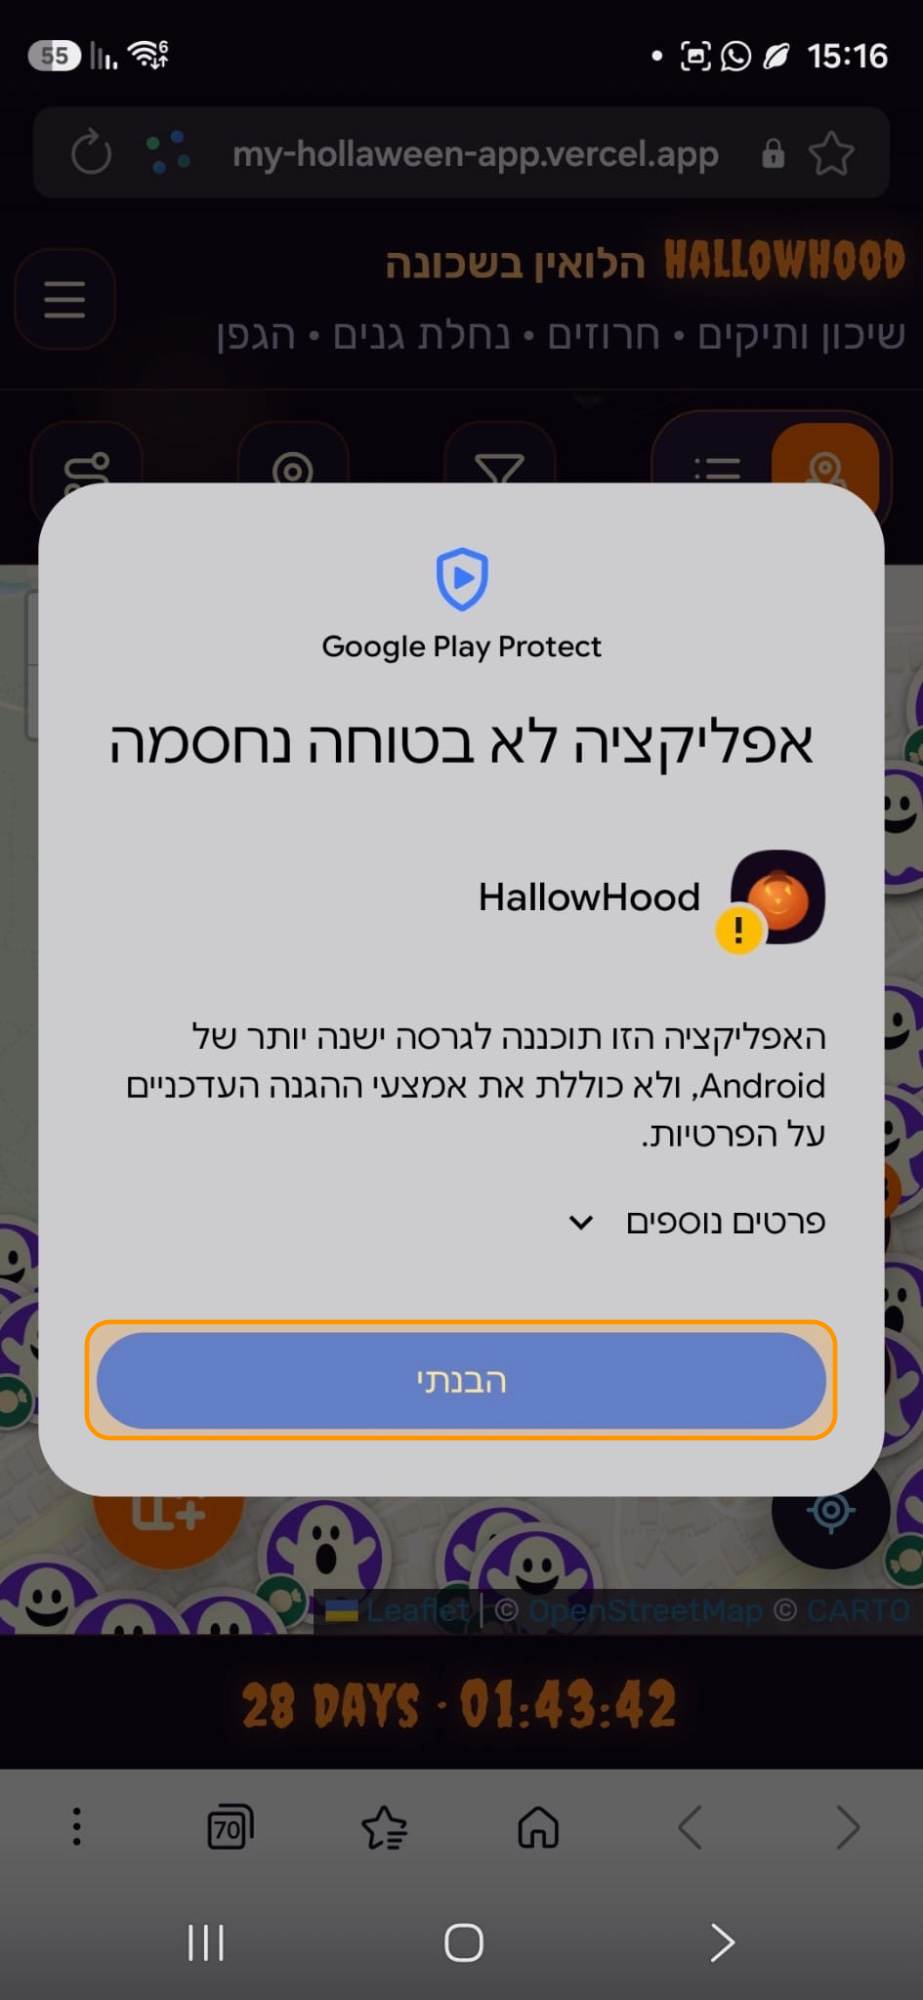
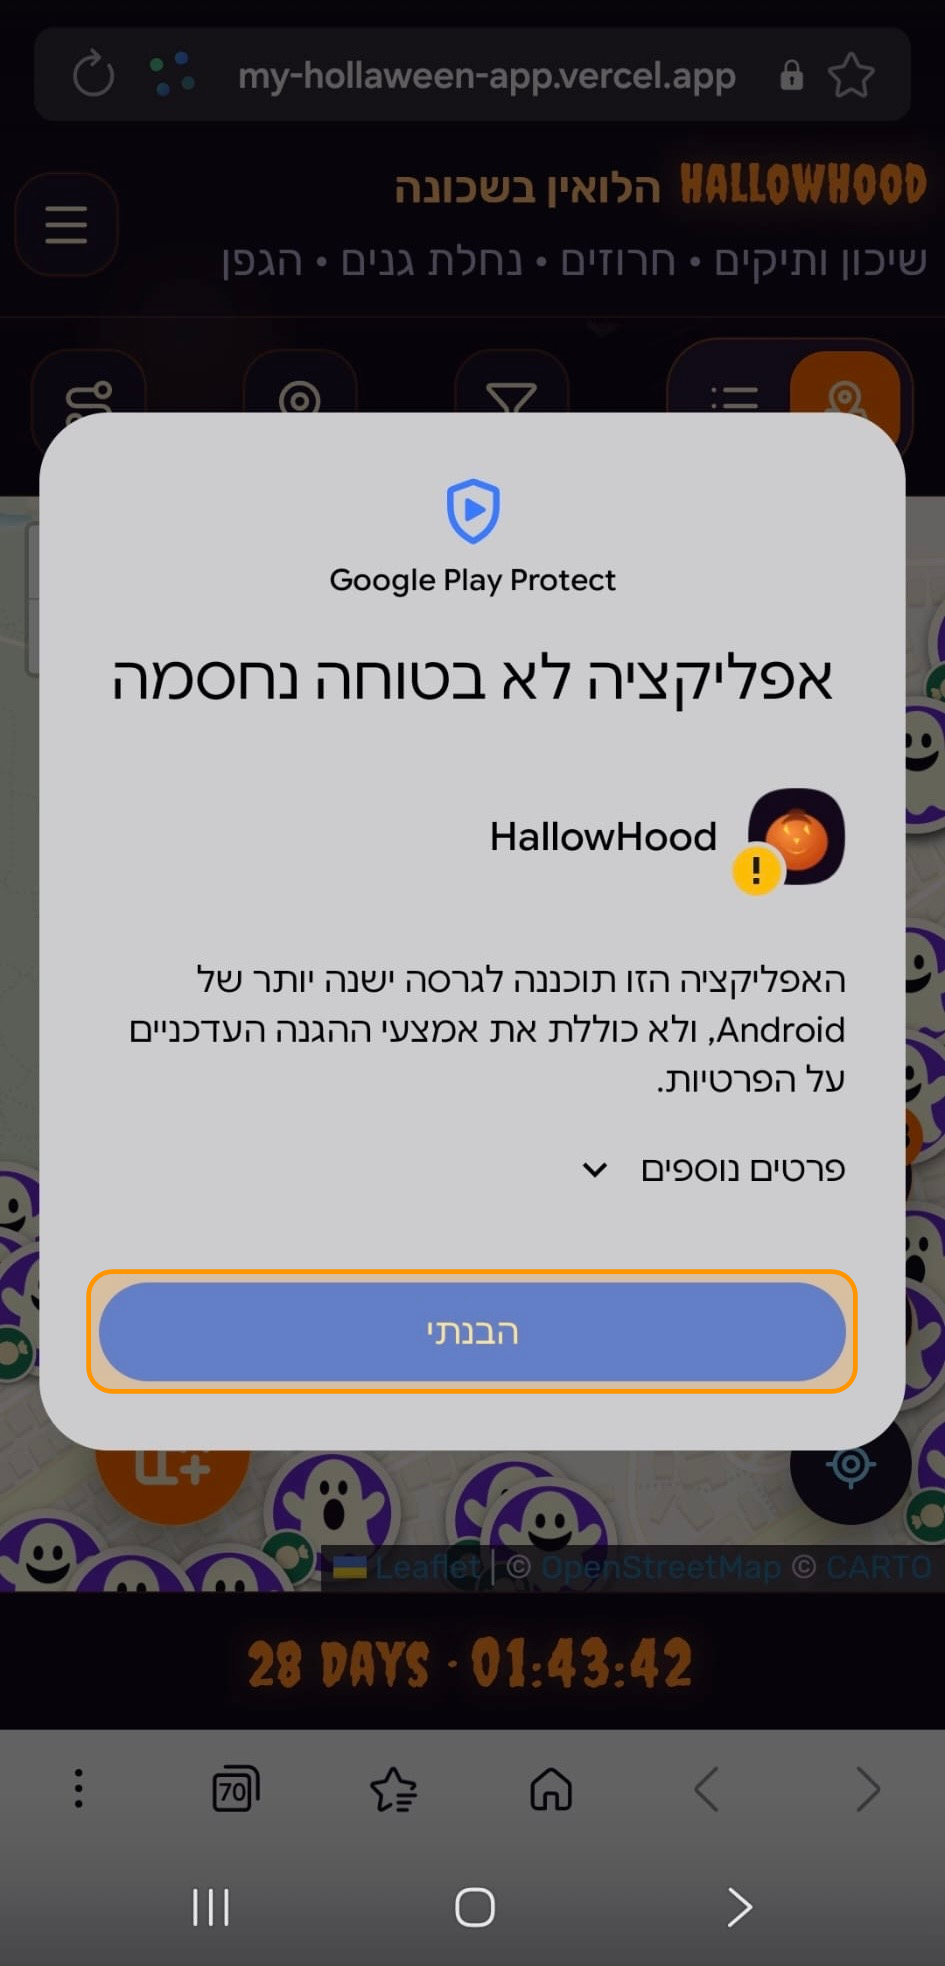
Replace install screenshots without status bar, add iOS confirm step
New cropped Play Protect and Add-to-Home confirm photos; third iPhone step
with Add button overlay. Regenerate Play Protect highlight for 945×1966 shot.

diff --git a/src/app/help/install/page.tsx b/src/app/help/install/page.tsx
@@ -5,6 +5,7 @@ import { HelpExpandable, HelpShell, HelpStep } from "@/components/help-shell";
 import { HelpText } from "@/lib/render-help-text";
 import { helpImage } from "@/lib/help-images";
 import {
+  IOS_INSTALL_ADD_CONFIRM_HIGHLIGHT,
   IOS_INSTALL_ADD_HOME_HIGHLIGHT,
   IOS_INSTALL_SHARE_HIGHLIGHT,
   type HelpShotHighlight,
@@ -25,10 +26,17 @@ const IPHONE_STEPS = [
   },
   {
     title: "הוספה למסך הבית",
-    body: "גללו ובחרו הוספה למסך הבית → הוסף. האייקון יופיע במסך הבית.",
+    body: "גללו ובחרו **הוספה למסך הבית** בתפריט השיתוף.",
     image: installHelpImage("ios-3-add-home-photo.png"),
     imageHighlight: IOS_INSTALL_ADD_HOME_HIGHLIGHT,
     imageAlt: "הוספה למסך הבית בתפריט השיתוף",
+  },
+  {
+    title: "אישור",
+    body: "לחצו **הוסף** (Add) למעלה מימין. האייקון יופיע במסך הבית.",
+    image: installHelpImage("ios-4-add-confirm-photo.jpg"),
+    imageHighlight: IOS_INSTALL_ADD_CONFIRM_HIGHLIGHT,
+    imageAlt: "מסך אישור — הוסף למסך הבית",
   },
 ] as const;
 

diff --git a/src/lib/help-shot-highlight.ts b/src/lib/help-shot-highlight.ts
@@ -19,3 +19,12 @@ export const IOS_INSTALL_ADD_HOME_HIGHLIGHT: HelpShotHighlight = {
   w: 0.93,
   h: 0.042,
 };
+
+/** iOS «Add to Home Screen» confirm — **Add** (969×2000 reference). */
+export const IOS_INSTALL_ADD_CONFIRM_HIGHLIGHT: HelpShotHighlight = {
+  kind: "row",
+  x: 0.808,
+  y: 0.036,
+  w: 0.17,
+  h: 0.038,
+};

diff --git a/src/lib/help-images.ts b/src/lib/help-images.ts
@@ -1,5 +1,5 @@
 /** Real app screenshots (PNG) under /images/help — not /help/* (avoids App Router route clash). */
-const HELP_IMAGES_VERSION = "15";
+const HELP_IMAGES_VERSION = "16";
 
 export function helpImage(path: string) {
   const file = path.replace(/^\//, "");
